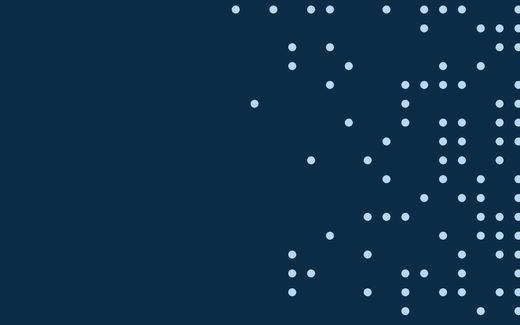
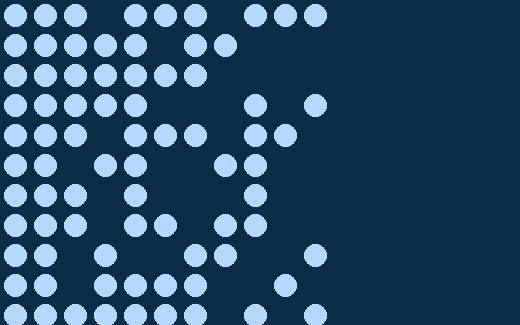
Dot patterns: 3x-larger dots in the scattered-field examples (clean grid stand-in)
- Regenerate the dot-field example images (sec6-01/02/03) at ~3x dot size, aligned grid, dense edge thinning inward, three colorways. Interim clean stand-in; a designer will supply verbatim actuals.
- Make the ready-made-fields caption edge-agnostic (was 'right edge') to match the examples

Claude-Session: https://claude.ai/code/session_01VAZeQ9i2hWPkVLCiN2vsAe

diff --git a/components/dots.html b/components/dots.html
@@ -37,7 +37,7 @@
   <div><img src="../assets/figures/sec6-03.jpg" alt="Scattered field, multicolor on navy" style="width:100%;border-radius:10px;display:block;"><p class="caption" style="margin:6px 0 0;">Multicolor on navy.</p></div>
 </div>
 
-<p class="caption"><strong>Use these ready-made fields rather than building new dot patterns by hand</strong> (hand-built fields drift off the grid and off-brand). Scattered-dot fields (light blue, Rhapsody blue, navy, and multicolor; transparent PNG, anchored to the right edge, flip or rotate to anchor another edge): <a href="https://rhapsodyhealth.sharepoint.com/Shared%20Documents/Forms/AllItems.aspx?id=%2FShared%20Documents%2FMarketing%2FPrivate%2FGraphic%20Design%2F%5FRhapsody%20Brand%20Package%2F2026%5FBrand%2FDevices%2FScattered%20Dots">Scattered Dots</a>.</p>
+<p class="caption"><strong>Use these ready-made fields rather than building new dot patterns by hand</strong> (hand-built fields drift off the grid and off-brand). Scattered-dot fields (light blue, Rhapsody blue, navy, and multicolor; transparent PNG, anchored to one edge, flip or rotate to anchor a different edge): <a href="https://rhapsodyhealth.sharepoint.com/Shared%20Documents/Forms/AllItems.aspx?id=%2FShared%20Documents%2FMarketing%2FPrivate%2FGraphic%20Design%2F%5FRhapsody%20Brand%20Package%2F2026%5FBrand%2FDevices%2FScattered%20Dots">Scattered Dots</a>.</p>
 <div class="principle">
   <div class="k">The rules for the dot field</div>
   <p>Anchor the field to a corner or edge and cover no more than 50 percent of the space. Density should read as airy, not packed: keep visible gaps everywhere, and let the field thin gradually as it moves away from its anchoring edge rather than stopping at a hard line. Never overlap text, keep a clear gap (at least the layout margin, about 6 to 7 percent). If multicolor, include one to five orange dots, few enough that orange reads as a surprise against the other colors. In the scattered field, every dot is the same size.</p>
